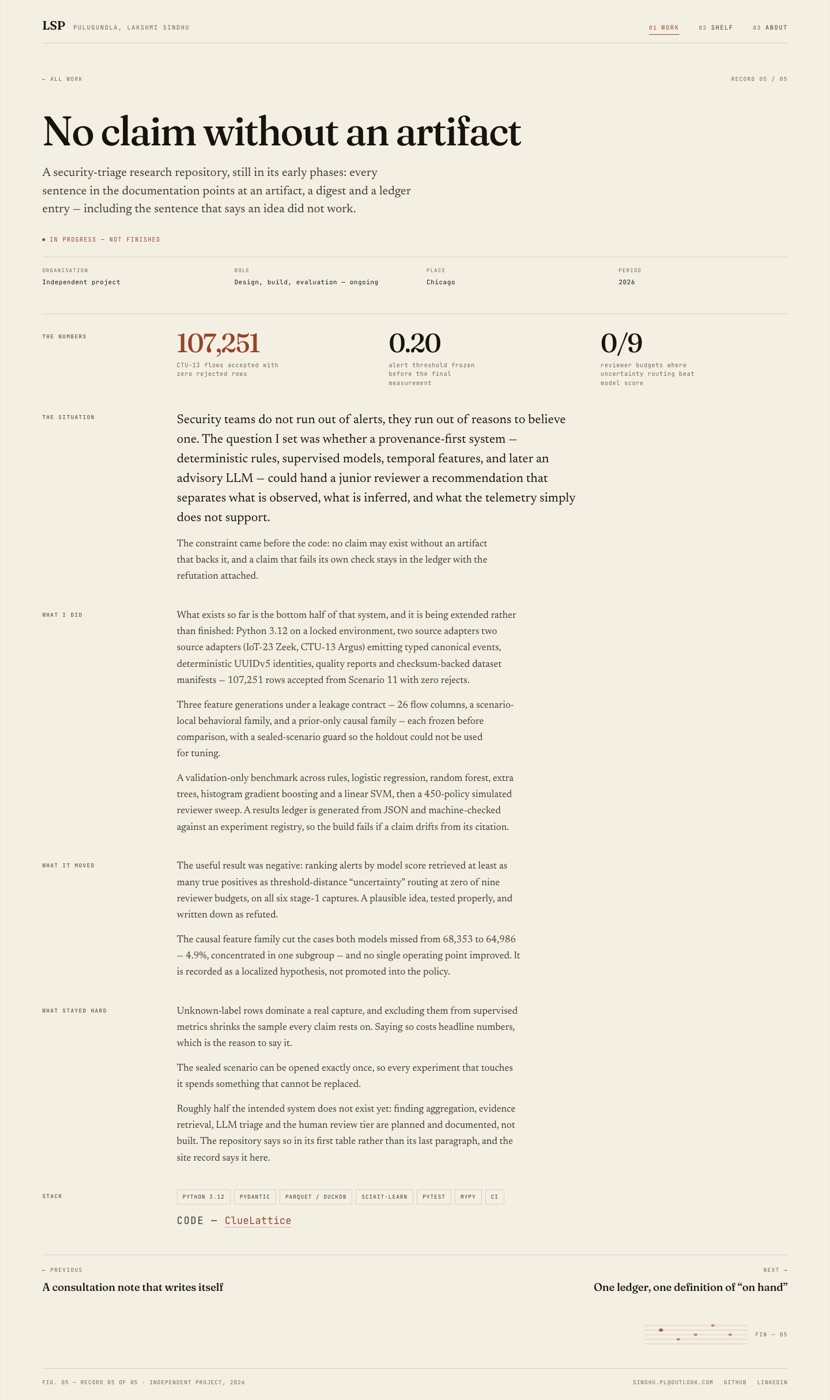
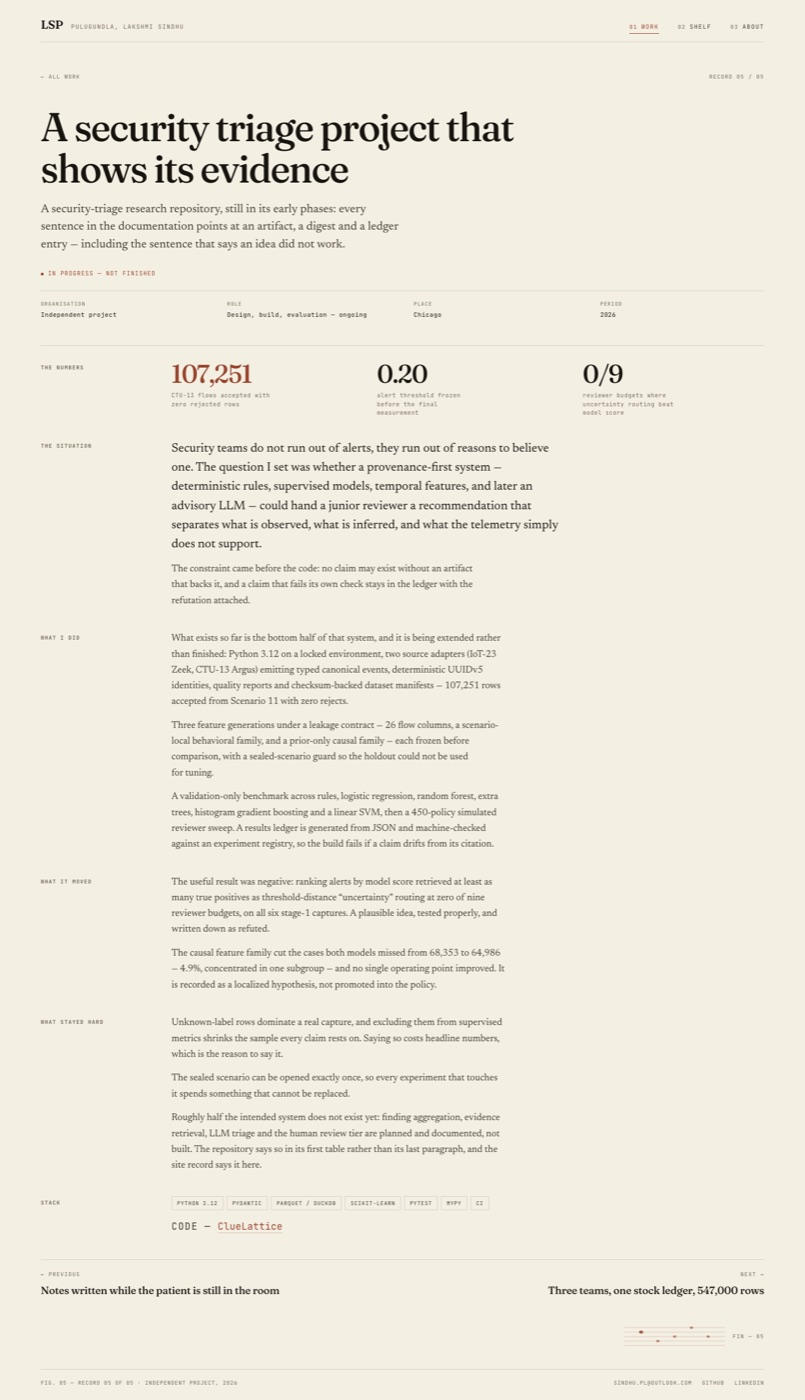
content: say what the work is instead of hinting at it
The record titles were written as riddles — 'One ledger, one definition of on
hand', 'No claim without an artifact' — which make a reader work before they know
whether the project is relevant to them. They now name the thing:

  01  Three teams, one stock ledger, 547,000 rows
  02  Cutting a 4.9-million-link protein network to 184,000
  03  What makes people replay a song
  04  Notes written while the patient is still in the room
  05  A security triage project that shows its evidence

Page titles plainer too: 'What I built, and what it moved' (work), 'Outside the
day job' (shelf), 'Who I am, and how I work' (about). The editorial voice stays
in the prose underneath, where it has room to earn itself.

diff --git a/src/data/records.ts b/src/data/records.ts
@@ -35,7 +35,7 @@ export const records: WorkRecord[] = [
     slug: 'procurement-ledger',
     index: '01',
     group: 'work',
-    title: 'One ledger, one definition of “on hand”',
+    title: 'Three teams, one stock ledger, 547,000 rows',
     org: 'Effexoft',
     place: 'Remote',
     period: '2025',
@@ -70,7 +70,7 @@ export const records: WorkRecord[] = [
     slug: 'protein-network',
     index: '02',
     group: 'work',
-    title: 'Five million edges down to the ones that matter',
+    title: 'Cutting a 4.9-million-link protein network to 184,000',
     org: 'Illinois Institute of Technology',
     place: 'Chicago',
     period: '2024',
@@ -106,7 +106,7 @@ export const records: WorkRecord[] = [
     slug: 'repeat-listening',
     index: '03',
     group: 'work',
-    title: 'Why a song survives the third listen',
+    title: 'What makes people replay a song',
     org: 'Illinois Institute of Technology',
     place: 'Chicago',
     period: '2024 · re-audited 2026',
@@ -142,7 +142,7 @@ export const records: WorkRecord[] = [
     slug: 'clinical-notes',
     index: '04',
     group: 'independent',
-    title: 'A consultation note that writes itself',
+    title: 'Notes written while the patient is still in the room',
     org: 'Independent project',
     place: 'Chicago',
     period: '2025',
@@ -177,7 +177,7 @@ export const records: WorkRecord[] = [
     slug: 'cluelattice',
     index: '05',
     group: 'independent',
-    title: 'No claim without an artifact',
+    title: 'A security triage project that shows its evidence',
     org: 'Independent project',
     place: 'Chicago',
     period: '2026',
